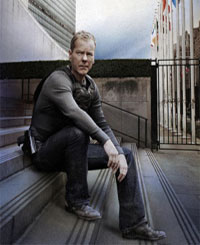
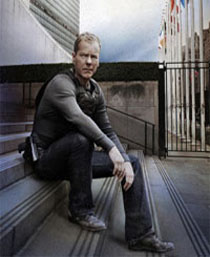
Updated for assignment #2.

diff --git a/jack_bauer_fan_site.html b/jack_bauer_fan_site.html
@@ -3,6 +3,7 @@
 <head>
 	<meta charset="utf-8">
 	<title>Jack Bauer is the MAN!</title>
+	<link rel="stylesheet" href="css/main.css">
 <body>
 <header>
 	<h1>My Jack Bauer Fan Site</h1>
@@ -11,53 +12,61 @@
 		<ul>
 			<li><a href="index.html">home</a></li>
 			<li><a href="about_me.html">about me</a></li>
-			<li><a href="links_to_bauer.html">links to Bauer</a></li>
+			<li><a href="links_to_bauer.html">links</a></li>
 			<li><a href="contact.html">contact</a></li>
 		</ul>
 	</nav>
 	
 </header>
 
-	<img src="images/jack_bauer_sil.jpg" width="425" height="500" alt="Silhouette of
-	Jack Bauer armed with a gun." title="Jack Bauer">
-	
 	<div>
-		<h2>Jack Bauer</h2>
-	
+	<img src="images/jack_bauer_sil.png" width="425" height="500" alt="Silhouette of
+	Jack Bauer armed with a gun." title="Jack Bauer">
+	</div>
+		<h2>A Brief History of Jack Bauer</h2>
+	<section>
 		<p><strong>Jack Bauer</strong> is the central figure of the American television
-		series <em>24</em>, which originally aired on the <em>FOX Broadcasting Company</em>.
+		series <a href="http://en.wikipedia.org/wiki/24_(TV_series)"><em>24</em></a>, which 
+		originally aired on the <em>FOX Broadcasting Company</em>.
 		His character has been involved in various situations on the show, from a member of 
 		the fictional Counter Terrorist Unit (CTU) based out of Los Angeles, to working with
  		the FBI in Washington, D.C. during the 7th season.</p>
- 	</div>
  	
- 	<p>Even though the television series ended it's successful run on May 24, 2010,
- 	involving 8 seasons, it is still a <span>highly</span> talked about TV series. Not to mention,
- 	whether you loved the show or hated it, the mere mentioning of the character
- 	<em><strong>Jack Bauer</strong></em> gets a lot of people's attention. Jack Bauer
- 	has actually been ranked on several different entertainment popularity lists.
- 	<em>Sky 1</em> ranked him as #1 on their "TV's toughest men" list and <em>Entertainment
- 	Weekly</em> has Jack ranked in their "The 20 All Time Coolest Heroes in Pop Culture".
- 	Just to name a few!</p>
+ 		<p>Jack was enlisted in the United States Army and was also a member of 
+ 		Delta Force, specialized in infantry operations before joining CTU. Among his numerous
+ 		attributes, Bauer also knows how to fly specific planes and helicopters.
+ 		Following his military career, he was recruited into the Counter Terrorist Unit. Jack has
+ 		two living relatives, his daughter Kim and his grand-daughter (Kim's daughter).</p>
+ 	
+ 		<p>Even though the television series ended it's successful run on May 24, 2010,
+ 		involving 8 seasons, it is still a <span>highly</span> talked about TV series. Not to mention,
+ 		whether you loved the show or hated it, the mere mentioning of the character
+ 		<em><strong>Jack Bauer</strong></em> gets a lot of people's attention. Jack Bauer
+ 		has actually been ranked on several different entertainment popularity lists.
+ 		<em>Sky 1</em> ranked him as #1 on their "TV's toughest men" list and <em>Entertainment
+ 		Weekly</em> has Jack ranked in their "The 20 All Time Coolest Heroes in Pop Culture".
+ 		Just to name a few!</p>
+ 	</section>
+ 	
  	
  	<aside>
  		<h2>Images of Jack Bauer</h2>
  			<ul>
- 				<li><img src="images/jack_bauer_desert.jpg" width="300" height="225" alt></li>
- 				<li><img src="images/jack_bauer_yelling.jpg" width="250" height="175" alt></li>
- 				<li><img src="images/jack_bauer_interogate.jpg" width="275" height="180" alt></li>
- 				<li><img src="images/jack_bauer_steps.jpg" width="200" height="245" alt></li>
+ 				<li class="pic1"><img src="images/jack_bauer_desert.jpg" width="210" height="158" alt></li>
+ 				<li class="pic2"><img src="images/jack_bauer_yelling.jpg" width="210" height="147" alt></li>
+ 				<li class="pic3"><img src="images/jack_bauer_interogate.jpg" width="210" height="137" alt></li>
+ 				<li class="pic4"><img src="images/jack_bauer_steps.jpg" width="210" height="257" alt></li>
  			</ul>
  	</aside>
  	
  	<h2>Top 5 Facts about Jack Bauer</h2>
  	
  		<ol>
- 			<li>If everyone on "24" followed Jack Bauer's instructions, it would be called "12".</li>
- 			<li>Jack Bauer quit for just five minutes, and a nuclear bomb went off.</li>
- 			<li>There have been no terrorist attacks in United States since Jack Bauer has appeared on television.</li>
- 			<li>Jack Bauer can torture you into giving up information you do not possess.</li>
- 			<li>Jack Bauer could strangle you with a cordless phone.</li>
+ 			<li class="fact1">If everyone on "24" followed Jack Bauer's instructions, it would be called "12".</li>
+ 			<li class="fact2">Jack Bauer quit for just five minutes, and a nuclear bomb went off.</li>
+ 			<li class="fact3">There have been no terrorist attacks in United States since Jack Bauer has appeared on television.</li>
+ 			<li class="fact4">Jack Bauer can torture you into giving up information you do not possess.</li>
+ 			<li class="fact5">Jack Bauer could strangle you with a cordless phone.</li>
  		</ol>
  		
  	<footer>

diff --git a/css/main.css b/css/main.css
@@ -1,0 +1,94 @@
+/* Color Swatch ----------------------------------
+	Gold			#FFD700
+	Dark Red		#8B0000
+	Dark Grey		#A9A9A9
+	Medium Blue		#0000CD
+------------------------------------------------*/
+
+body{
+	width: 900px;
+	margin: 0 auto;
+	padding: 0;
+	font-family: bank gothic;
+	background; grey;
+	/*-------background-image: url(../images/bauer_background.jpg);
+	-------------*/
+	background-attachment: fixed;
+	background-repeat: repeat-x;
+}
+
+h1{
+	background: grey; width: 455px;
+}
+
+nav{
+	width: 500px;
+	margin: 0 auto;
+	list-style-type: none;
+	padding: 0;
+	overflow: hidden;
+}
+
+
+div{
+	background-image: url(../images/CTA_background.png);
+	/*-------border-width: 3px;
+	border-style: solid;
+	border-color: #666666;-------*/
+}
+
+section{
+	-moz-column-count: 3;
+	-moz-column-gap: 35px;
+	-webkit-column-count: 3;
+	-webkit-column-gap: 35px;
+	-ms-column-count: 3;
+	-ms-column-gap: 35px;
+}
+
+h1, h2, p, ol li, footer{
+	color: #000000
+}
+
+.pic1{
+	float: left;
+	list-style-type: none; 
+}
+
+.pic2{
+	float: left;
+	margin: 0 5px;
+	list-style-type: none;
+}
+
+.pic3{
+	float: left;
+	list-style-type: none;
+}
+
+.pic4{
+	float: left;
+	margin: 0 5px;
+	list-style-type: none;
+}
+
+h1{
+	text-shadow: 3px 3px 2px #404040;
+}
+
+
+a:link{
+	color: #FFD700;
+}
+
+a:visited{
+	color: #A9A9A9;
+}
+
+a:hover{
+	color: #8B0000;
+}
+
+a:active{
+	color: #0000CD;
+}
